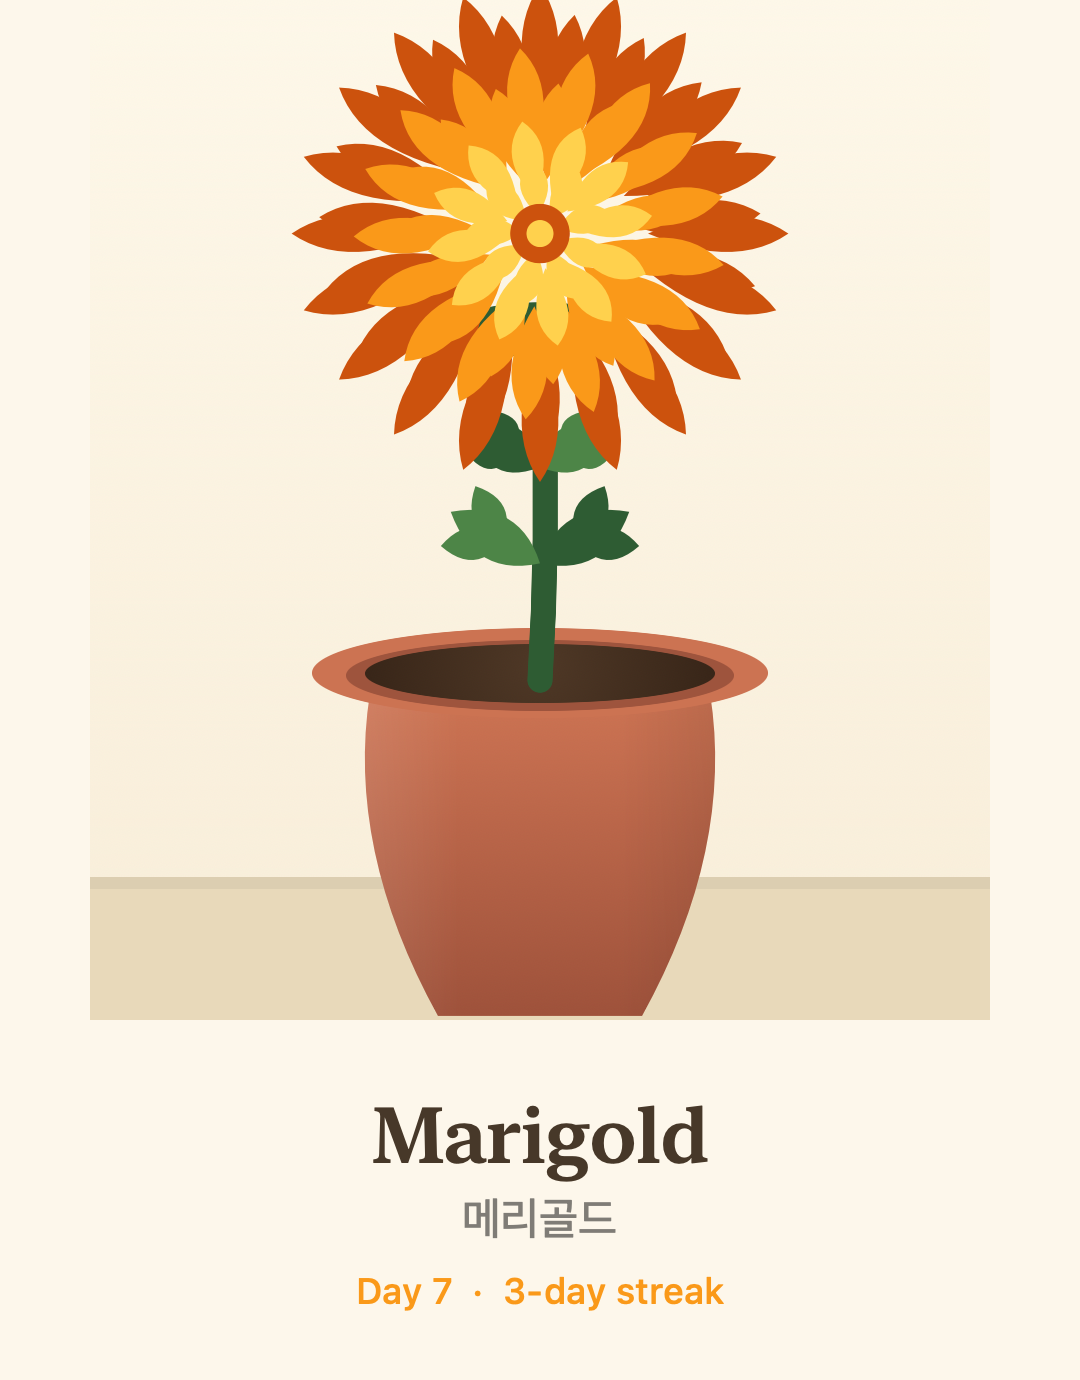
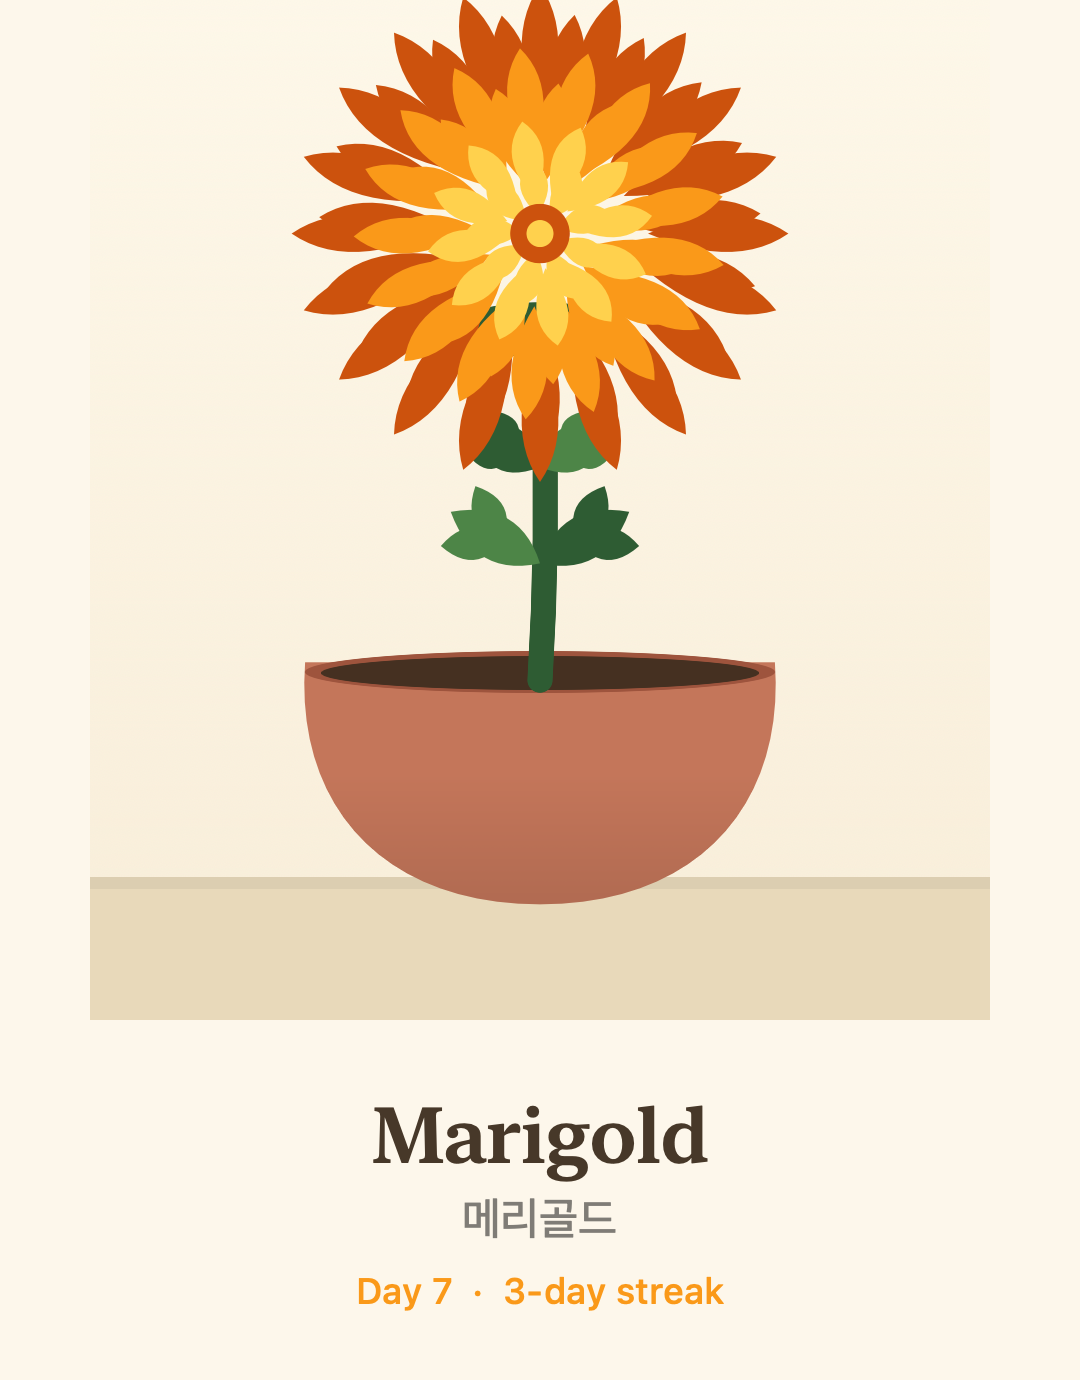
feat(art): P3 사발 — the pot becomes a flat, modern low bowl
Round-3 pot pick from the mock exploration: near-straight lip rolling
into one soft bottom curve, single matte terracotta with a whisper of
bottom shade, thin inner lip, no flared rim. soilFraction 0.15→0.12;
PlantView gives the bowl a lower, slightly wider frame (0.58w × 0.26h).
All six species re-verified in the grid; reference renders re-shot.

Changed region(s): [[0.275, 0.4362, 0.7333, 0.7478]]

diff --git a/SsakArt/Sources/SsakArt/Backdrop.swift b/SsakArt/Sources/SsakArt/Backdrop.swift
@@ -37,64 +37,55 @@ public struct Sill: View {
     }
 }
 
-/// The pot's outer silhouette: a tapered body with a gentle convex belly.
+/// The pot's outer silhouette (round 3 "P3 사발"): a low bowl — near-straight lip,
+/// sides rolling into one soft continuous bottom curve. No flared rim.
 struct PotBody: Shape {
     func path(in r: CGRect) -> Path {
         let w = r.width, h = r.height
-        let tl = CGPoint(x: w * 0.15, y: h * 0.20)
-        let tr = CGPoint(x: w * 0.85, y: h * 0.20)
-        let br = CGPoint(x: w * 0.71, y: h * 0.99)
-        let bl = CGPoint(x: w * 0.29, y: h * 0.99)
+        let tl = CGPoint(x: w * 0.05, y: h * 0.08)
+        let tr = CGPoint(x: w * 0.95, y: h * 0.08)
         var p = Path()
         p.move(to: tl)
         p.addLine(to: tr)
-        // right wall bows out (belly) then tapers in
-        p.addQuadCurve(to: br, control: CGPoint(x: w * 0.90, y: h * 0.58))
-        p.addLine(to: bl)
-        // left wall bows out symmetrically
-        p.addQuadCurve(to: tl, control: CGPoint(x: w * 0.10, y: h * 0.58))
+        // right side rolls into the bottom bowl curve…
+        p.addCurve(to: CGPoint(x: w * 0.5, y: h * 0.99),
+                   control1: CGPoint(x: w * 0.97, y: h * 0.62),
+                   control2: CGPoint(x: w * 0.80, y: h * 0.99))
+        // …and back up the left, symmetrically
+        p.addCurve(to: tl,
+                   control1: CGPoint(x: w * 0.20, y: h * 0.99),
+                   control2: CGPoint(x: w * 0.03, y: h * 0.62))
         return p
     }
 }
 
-/// Terracotta pot with a curved belly, a rim with depth, a soft cylindrical
-/// highlight, and a visible soil surface. Soil-surface center sits at
+/// The 사발 (round 3): a flat, modern low bowl — single matte terracotta, a thin
+/// inner-lip shade, and the soil surface. Soil-surface center sits at
 /// `soilFraction` of the pot's own height — the anchor a plant grows from.
 public struct Pot: View {
     public init() {}
     /// Pot-local y (fraction of height) of the soil-surface center — PlantView
     /// uses this to align the plant's base with the soil.
-    public static let soilFraction: CGFloat = 0.15
+    public static let soilFraction: CGFloat = 0.12
 
     public var body: some View {
         GeometryReader { geo in
             let w = geo.size.width, h = geo.size.height
-            let terracotta = LinearGradient(
-                colors: [Color(red: 0.85, green: 0.49, blue: 0.35),
-                         Color(red: 0.62, green: 0.32, blue: 0.23)],
-                startPoint: .top, endPoint: .bottom)
             ZStack {
-                // body
-                PotBody().fill(terracotta)
-                // cylindrical shading: light on the left, shadow on the right
+                // body — flat matte terracotta, one whisper of bottom shade for roundness
+                PotBody().fill(Color(red: 0.769, green: 0.463, blue: 0.353))
                 PotBody().fill(LinearGradient(
-                    colors: [.white.opacity(0.16), .clear, .clear, .black.opacity(0.14)],
-                    startPoint: .leading, endPoint: .trailing))
-                // rim: outer lip, inner-wall shadow, then soil in the opening
-                Ellipse()
-                    .fill(Color(red: 0.80, green: 0.45, blue: 0.32))
-                    .frame(width: w * 0.94, height: h * 0.22)
-                    .position(x: w * 0.5, y: h * 0.15)
+                    colors: [.clear, .clear, .black.opacity(0.10)],
+                    startPoint: .top, endPoint: .bottom))
+                // thin inner lip
                 Ellipse()
                     .fill(Color(red: 0.62, green: 0.33, blue: 0.24))
-                    .frame(width: w * 0.80, height: h * 0.175)
-                    .position(x: w * 0.5, y: h * 0.155)
+                    .frame(width: w * 0.90, height: h * 0.16)
+                    .position(x: w * 0.5, y: h * 0.115)
+                // soil surface
                 Ellipse()
-                    .fill(RadialGradient(
-                        colors: [Color(red: 0.31, green: 0.22, blue: 0.15),
-                                 Color(red: 0.21, green: 0.14, blue: 0.09)],
-                        center: .init(x: 0.5, y: 0.35), startRadius: 0, endRadius: w * 0.4))
-                    .frame(width: w * 0.72, height: h * 0.145)
+                    .fill(Color(red: 0.27, green: 0.19, blue: 0.13))
+                    .frame(width: w * 0.84, height: h * 0.13)
                     .position(x: w * 0.5, y: h * Pot.soilFraction)
             }
         }

diff --git a/SsakArt/Sources/SsakArt/PlantView.swift b/SsakArt/Sources/SsakArt/PlantView.swift
@@ -22,7 +22,7 @@ public struct PlantView: View {
         GeometryReader { geo in
             let w = geo.size.width, h = geo.size.height
             let soilY = h * 0.66                       // the shared soil line
-            let potW = w * 0.54, potH = h * 0.40
+            let potW = w * 0.58, potH = h * 0.26       // round 3: low 사발 bowl
             ZStack {
                 Sill(wall: wall, board: board)
                 // Pot placed so its soil surface sits on the soil line.